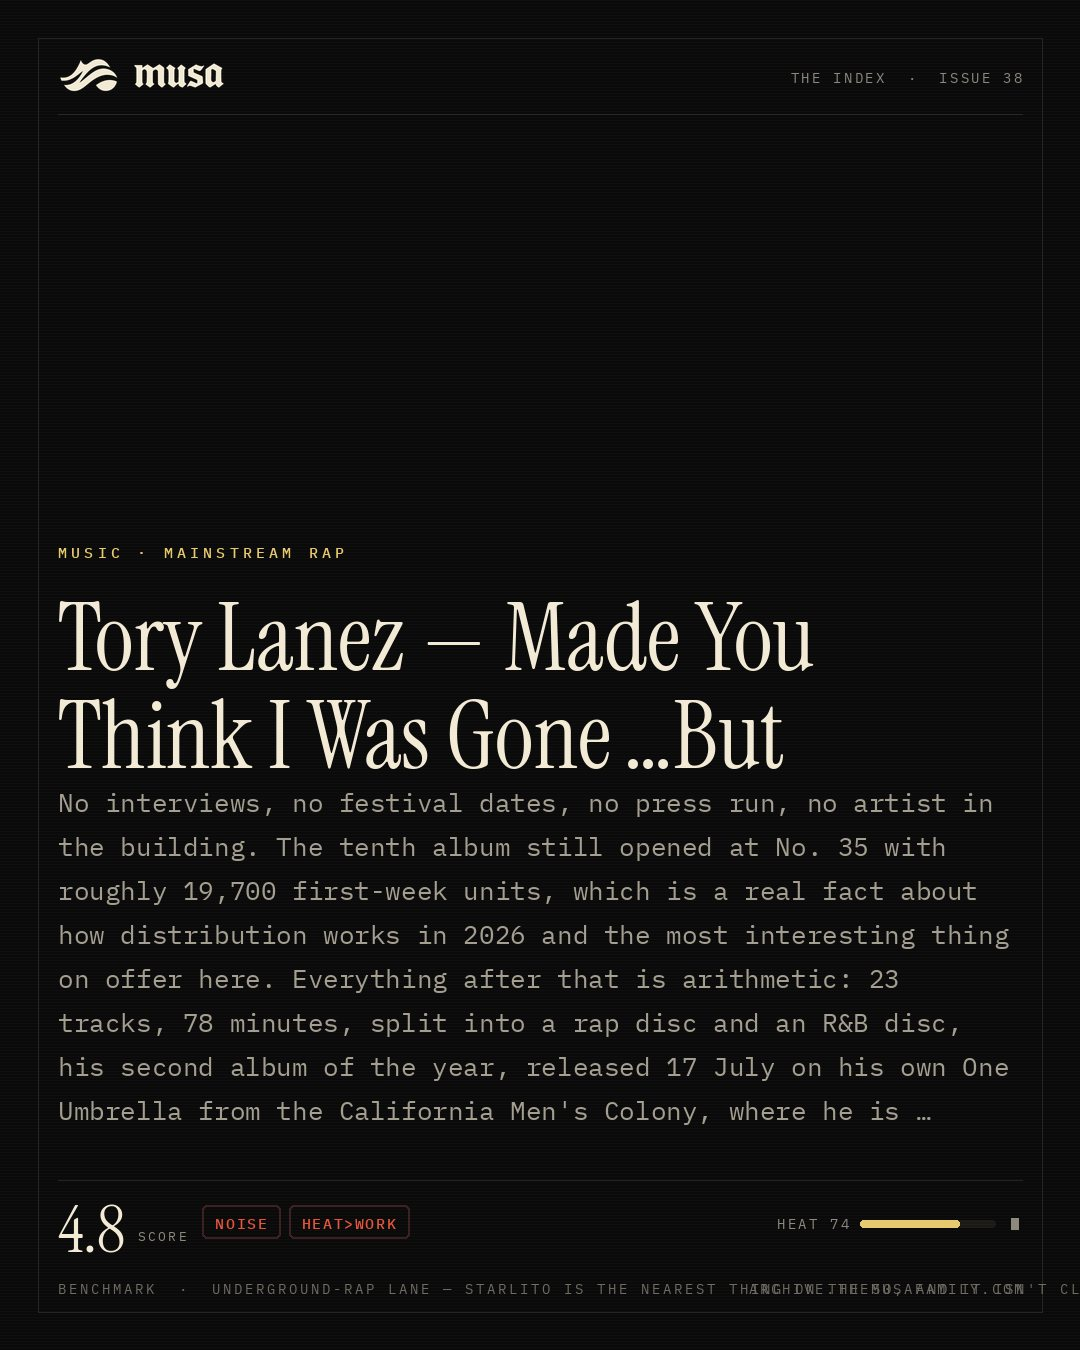
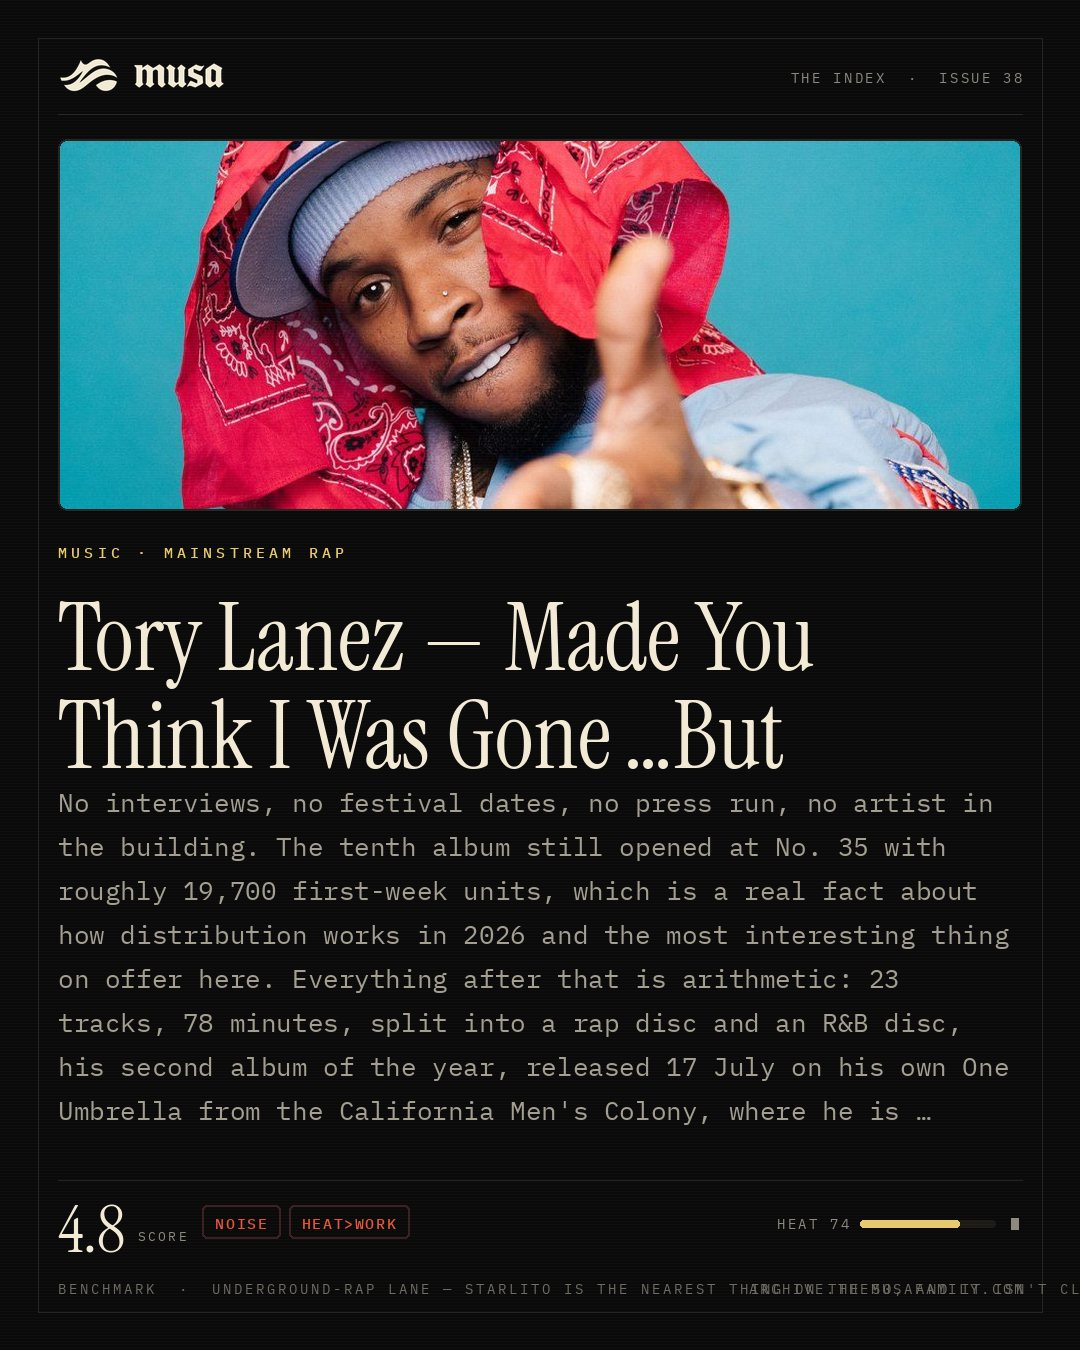
art: tory-lanez operator image; janett-kabeh source link -> instagram

Changed region(s): [[0.0306, 0.0933, 0.9472, 0.4044]]

diff --git a/i/tory-lanez-made-you-think-i-was-gone-but/index.html b/i/tory-lanez-made-you-think-i-was-gone-but/index.html
@@ -126,7 +126,7 @@ footer b{font-family:var(--mono);font-size:9px;color:#b8b09c;letter-spacing:.2em
 </header>
 <div class="eyebrow">ISSUE 38 &nbsp;·&nbsp; <span class="a">JUL 29 2026</span> &nbsp;·&nbsp; MUSIC · MAINSTREAM RAP</div>
 <h1>Tory Lanez — Made You Think I Was Gone …But</h1>
-<figure class="art"><img src="https://archive.themusafamily.com/img/musa-mark.png" alt="Tory Lanez — Made You Think I Was Gone …But" loading="lazy" style="height:320px;object-fit:contain;background:#0a0a0a" onerror="this.onerror=null;this.src='https://archive.themusafamily.com/img/musa-mark.png';this.style.objectFit='contain';this.style.background='#0a0a0a'"></figure>
+<figure class="art"><img src="https://archive.themusafamily.com/img/entries/tory-lanez-made-you-think-i-was-gone-but.jpg" alt="Tory Lanez — Made You Think I Was Gone …But" loading="lazy" onerror="this.onerror=null;this.src='https://archive.themusafamily.com/img/musa-mark.png';this.style.objectFit='contain';this.style.background='#0a0a0a'"></figure>
 <div class="read">No interviews, no festival dates, no press run, no artist in the building. The tenth album still opened at No. 35 with roughly 19,700 first-week units, which is a real fact about how distribution works in 2026 and the most interesting thing on offer here. Everything after that is arithmetic: 23 tracks, 78 minutes, split into a rap disc and an R&amp;B disc, his second album of the year, released 17 July on his own One Umbrella from the California Men&#x27;s Colony, where he is serving ten years for shooting Megan Thee Stallion. Volume is the argument because volume is the only thing available. The 50 rewards taste over reach; this is reach with the taste removed.</div>
 <div class="rail">
   <span class="sc">4.8<small>SCORE</small></span>

diff --git a/i/janett-kabeh/index.html b/i/janett-kabeh/index.html
@@ -137,7 +137,7 @@ footer b{font-family:var(--mono);font-size:9px;color:#b8b09c;letter-spacing:.2em
     <span class="dir f">▮</span></span>
 </div>
 <div class="bench">BENCHMARK IN THE 50 · <b><a class="benchlink" href="https://denimtears.com" target="_blank" rel="noopener" title="On THE MUSA 50">Denim Tears</a></b></div>
-<a class="src" href="https://www.artsy.net/artist/janett-kabeh" target="_blank" rel="noopener">GO TO THE SOURCE ↗</a>
+<a class="src" href="https://www.instagram.com/janettkabeh/" target="_blank" rel="noopener">GO TO THE SOURCE ↗</a>
 <a class="goback" id="goback" href="/">← BACK TO THE ARCHIVE</a>
 <div class="also"><div class="lbl">ALSO IN <a class="isslink" href="/issues/#i41">ISSUE 41</a></div><a href="/i/kojo-koram-the-next-fix/">Kojo Koram — The Next Fix<span>BOOKS · 8.4</span></a><a href="/i/body-quotidian-laila-majid-and-inaam-zafar/">Body Quotidian — Laila Majid &amp; Inaam Zafar<span>ART · 7.7</span></a><a href="/i/meechi-mono-whoever-listens/">Meechi Mono — Whoever Listens<span>MUSIC · 6.6</span></a><a href="/i/king-hendrick-mob-america-2/">King Hendrick$ — Mob America 2<span>MUSIC · 6.2</span></a></div>
 <footer><b>THE MUSA FAMILY · HEIRWAVE</b>
